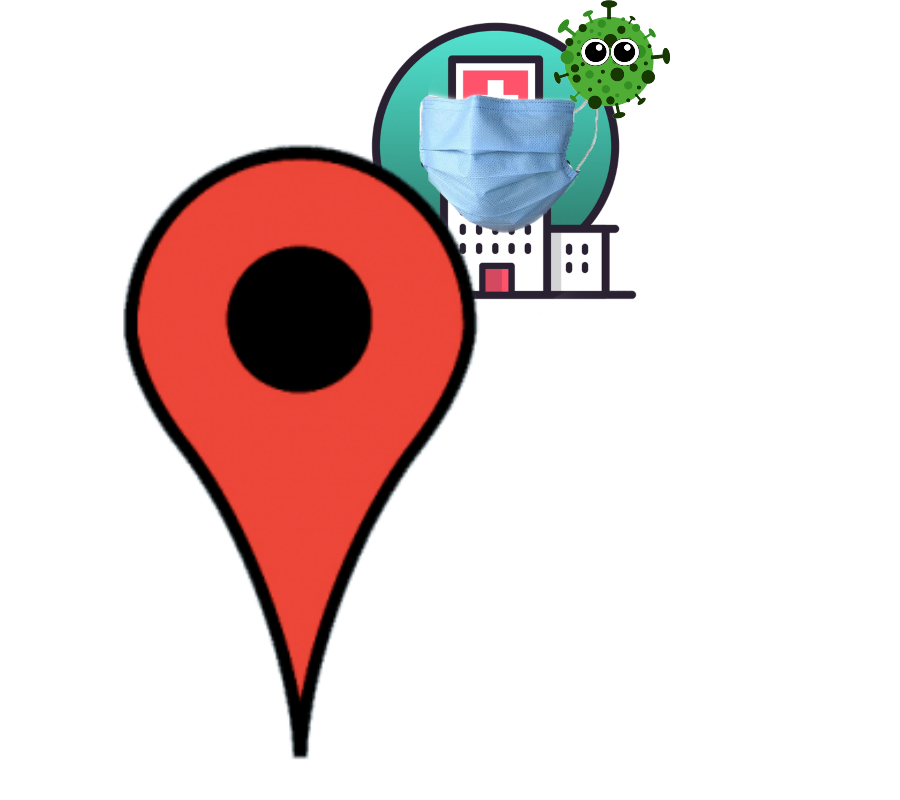
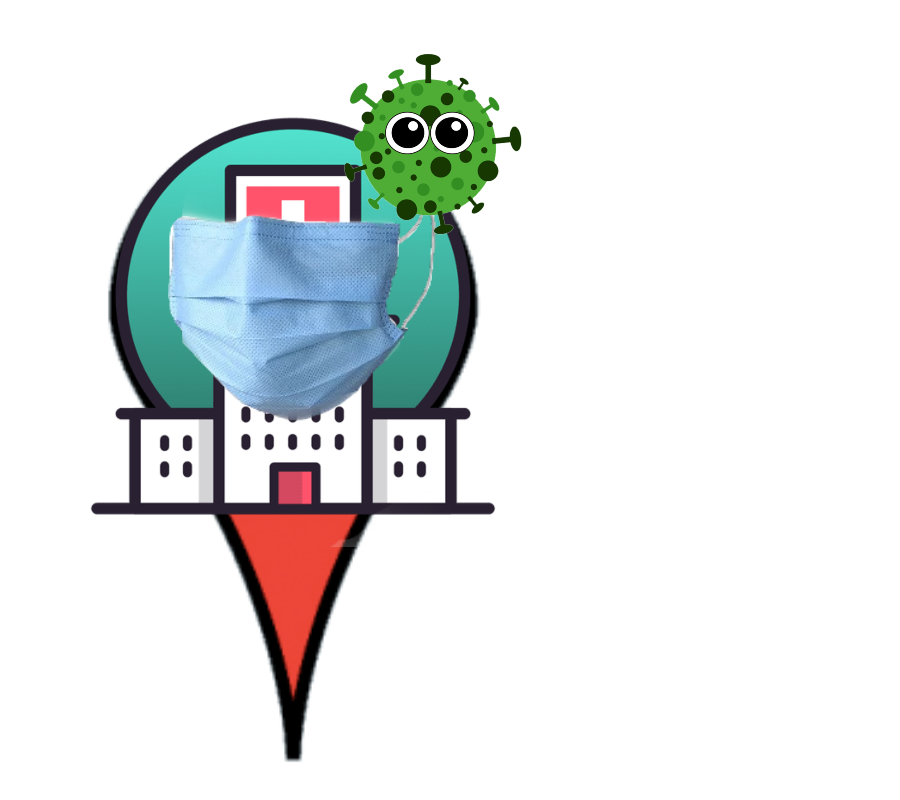
Images in markers

Changed region(s): [[0.0933, 0.0, 0.7467, 0.9688]]

diff --git a/Screens/MapHospitals.js b/Screens/MapHospitals.js
@@ -20,6 +20,9 @@ import * as Location from 'expo-location';
 import * as Permissions from 'expo-permissions';
 import Constants from 'expo-constants';
 import Reload from '../Img/Reload.png'
+import CovidMarker from '../Img/MapMarkers/CovidMarker.png'
+import GeneralMarker from '../Img/MapMarkers/GeneralMarker.png'
+import OdontologiaMarker from '../Img/MapMarkers/OdontologiaMarker.png'
 
 
 
@@ -49,10 +52,11 @@ class App extends Component {
     this.state={
       Nombre:null,
       Hospitals:[],
-      /* Hospitals:[ {latitude: 4.699050, longitude: -74.050105},
-        {latitude: 4.671959, longitude: -74.083579},
-        {latitude: 4.683959, longitude: -74.083579},
-      ], */
+      /* Hospitals:[ 
+                  {latitude: 4.699050, longitude: -74.050105, category:1},
+                  {latitude: 4.671959, longitude: -74.083579, category:2},
+                  {latitude: 4.683959, longitude: -74.083579, category:3},
+      ],  */
       Mapa:[],
       location:null,
       errorMsg:null,
@@ -140,68 +144,11 @@ class App extends Component {
     navigation.navigate('QR', {HospitalName: HN, HospitalAddres:HA, UserLatitude: this.state.UserLatitude, UserLongitude: this.state.UserLongitude })
   }
 
-  MarkerColor  (HT, r){
-    let color='';
-    let category='';
-    //let marker = [];
 
-    if (HT === 1){
-      //this.setState({HospitalCategory: 'Covid-19'})
-      category='Covid-19'
-      color='green'
-    }else 
-      if (HT === 2){
-        //this.setState({HospitalCategory: 'Medicina general'})
-        category='Medicina general'
-        color='yellow'
-      }else
-        if(HT === 3){
-          //this.setState({HospitalCategory: 'Odontología'})
-          category='Odontología'
-          color='blue'
-        }else{
-          //this.setState({HospitalCategory: 'No definido'})
-          category= 'No definido'
-          color='black'
-        }
-    //this.setState({HospitalCategory: category})
-    
-    if (r ===0){
-      return(color)
-    }else{
-      return(category)
-    }
 
-  }
 
-  MapList = () =>{
-    return(
-      this.state.Hospitals.map( (x,i) =>{    
-        return(
-          <Marker 
-            coordinate={
-              {latitude: parseFloat(x.latitude) , 
-              longitude: parseFloat(x.longitude)} 
-            } 
-            key={i}
-            pinColor={this.MarkerColor(x.category,0)}
-          >
-            <Callout  onPress ={() => this.GoToQR(x.title,x.address)} >
-                  <Text>
-                    {x.title}
-                  </Text>
-                  <Text style={{alignSelf:'center'}} >
-                    {this.MarkerColor(x.category,1)}
-                  </Text>
-                  <Text style={{alignSelf:'center'}} >
-                    {x.address}
-                  </Text>       
-            </Callout>
-          </Marker>
-        )
-      } )
-    ); 
-  }   
+
+  
 
 
   render(){
@@ -210,14 +157,10 @@ class App extends Component {
                                 longitude: -74.0817500,
                                 latitudeDelta: 0.27, /*0.0922*/
                                 longitudeDelta: 0.27, /*0.0421*/};
-
+    const {navigation}= this.props;
       return (
 
         <View style={styles.container}>
-
-
-
-
 
           <View style={styles.mapContainer}>
             <MapView 
@@ -227,7 +170,77 @@ class App extends Component {
                 initialRegion={Bogotá_Coordinates}
               >
                 
-                {this.MapList()}
+
+                {
+                    this.state.Hospitals.map( (x,i) =>{    
+                      return(
+                        <Marker 
+                          coordinate={
+                            {latitude: parseFloat(x.latitude) , 
+                            longitude: parseFloat(x.longitude)} 
+                          } 
+                          key={i}
+                          //pinColor={this.MarkerColor(x.category,0)}
+                        >
+                        
+{/*                         <Callout   onPress ={() => navigation.navigate('QR', {HospitalName: x.title, HospitalAddres:x.address, UserLatitude: this.state.UserLatitude, UserLongitude: this.state.UserLongitude })}  >
+                          <Text>
+                            {x.title}
+                          </Text>
+                          <Text style={{alignSelf:'center'}} >
+                            {x.address}
+                          </Text>        
+                        </Callout> */}
+
+
+                        {
+                          x.category === 1?
+                            <TouchableOpacity
+                              onPress={()=> navigation.navigate('QR', {HospitalName: x.title, HospitalAddres:x.address, UserLatitude: this.state.UserLatitude, UserLongitude: this.state.UserLongitude })}
+                            >
+                              <Image
+                                  onLoad={() => this.forceUpdate()}
+                                  onLayout={() => this.forceUpdate()}
+                                  source={require('../Img/MapMarkers/CovidMarker.png')}
+                                  style={styles.markerImage}
+                                >
+                              </Image>
+                            </TouchableOpacity>
+                            
+                            :
+                              x.category === 2?
+                                <Image
+                                  onLoad={() => this.forceUpdate()}
+                                  onLayout={() => this.forceUpdate()}
+                                  source={require('../Img/MapMarkers/GeneralMarker.png')}
+                                  style={styles.markerImage}
+                                >
+                                </Image>                              
+                                :
+                                  x.category === 3?
+                                    <Image
+                                      onLoad={() => this.forceUpdate()}
+                                      onLayout={() => this.forceUpdate()}
+                                      source={require('../Img/MapMarkers/OdontologiaMarker.png')}
+                                      style={styles.markerImage}
+                                    >
+                                    </Image>
+                                    :
+                                    null                                
+                        }
+                              {/* <Image
+                                onLoad={() => this.forceUpdate()}
+                                onLayout={() => this.forceUpdate()}
+                                source={require('../Img/MapMarkers/CovidMarker.png')}
+                                style={{width:50, height:50}}
+                              >
+                              </Image> */}
+                          
+
+                        </Marker>
+                      )
+                    } )
+                }
                 
               </MapView>
               
@@ -235,15 +248,7 @@ class App extends Component {
 
             <View style={{flex:1, marginTop:'8%',alignItems:'flex-end', marginHorizontal:'5%'}} >
               <TouchableOpacity
-<<<<<<< HEAD
-<<<<<<< HEAD
-                onPress={()=> {this.componentDidMount()}}
-=======
                 onPress={()=> this.componentDidMount()}
->>>>>>> 26401023650d631f608bd7a03dec145838a7091a
-=======
-                onPress={()=> this.componentDidMount()}
->>>>>>> 26401023650d631f608bd7a03dec145838a7091a
               >
                 <Image 
                   source={Reload}
@@ -267,6 +272,11 @@ const styles = StyleSheet.create({
     paddingTop:'15%',
     //flexDirection:'row'
     
+  },
+
+  markerImage:{
+    width:70,
+    height:70
   },
 
   mapStyle:{

diff --git a/App.js b/App.js
@@ -20,7 +20,7 @@ const RootStack = createStackNavigator(
   Hospitals:MapHospitals,
   },
   {
-    initialRouteName: 'Login', //Login
+    initialRouteName: 'Hospitals', //Login
     headerMode:'none'
   },
   
